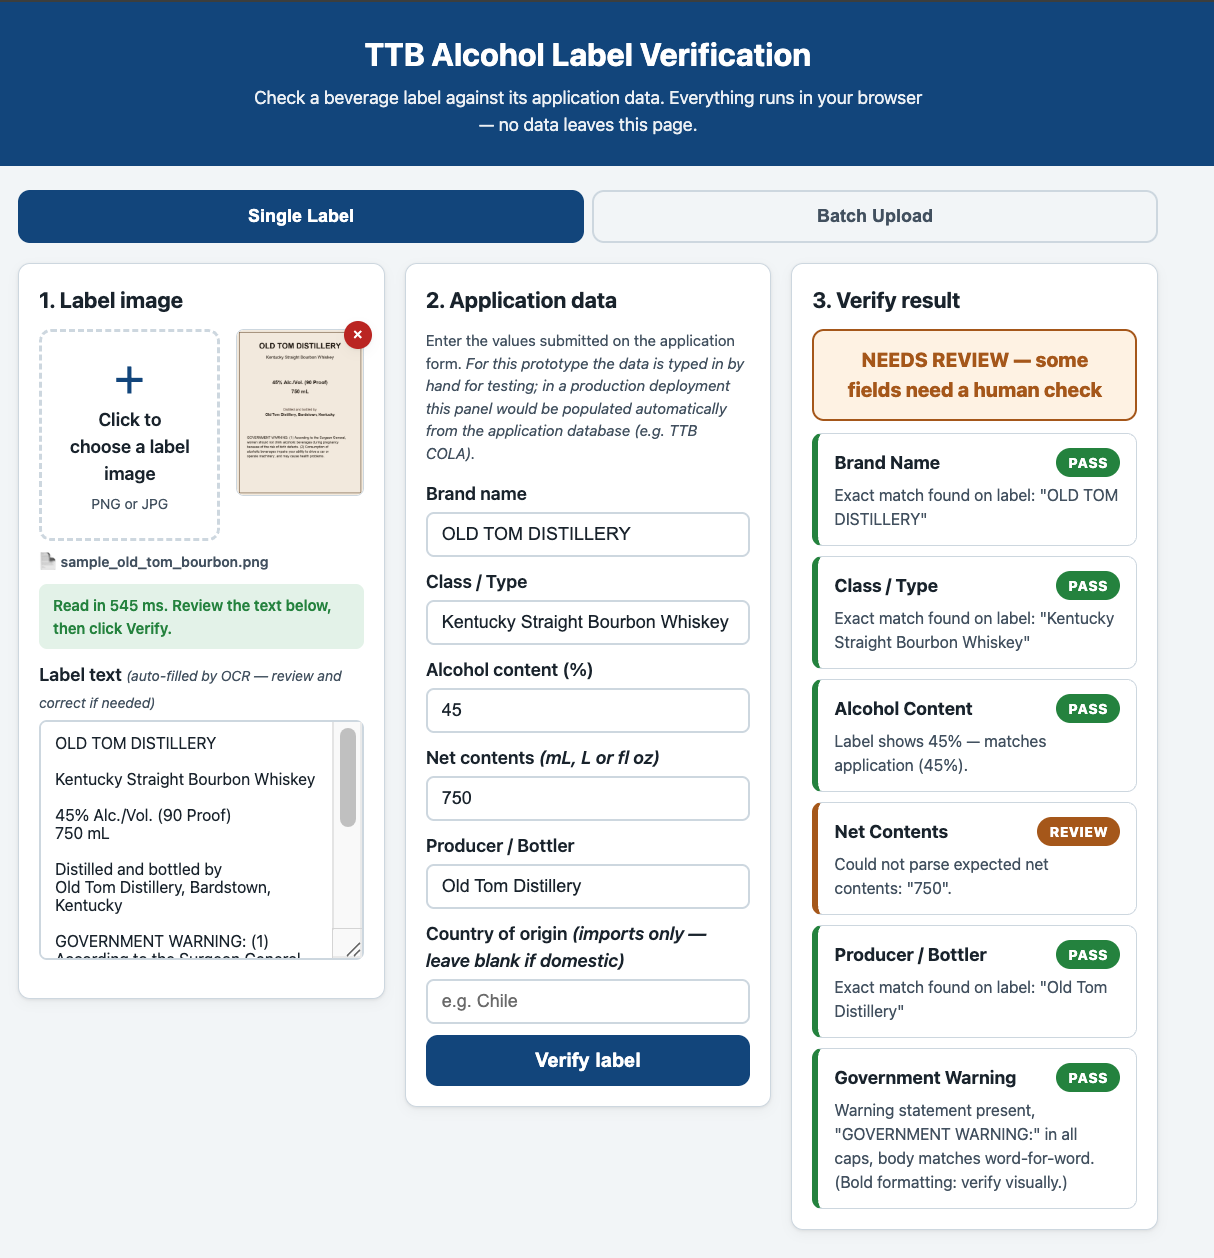
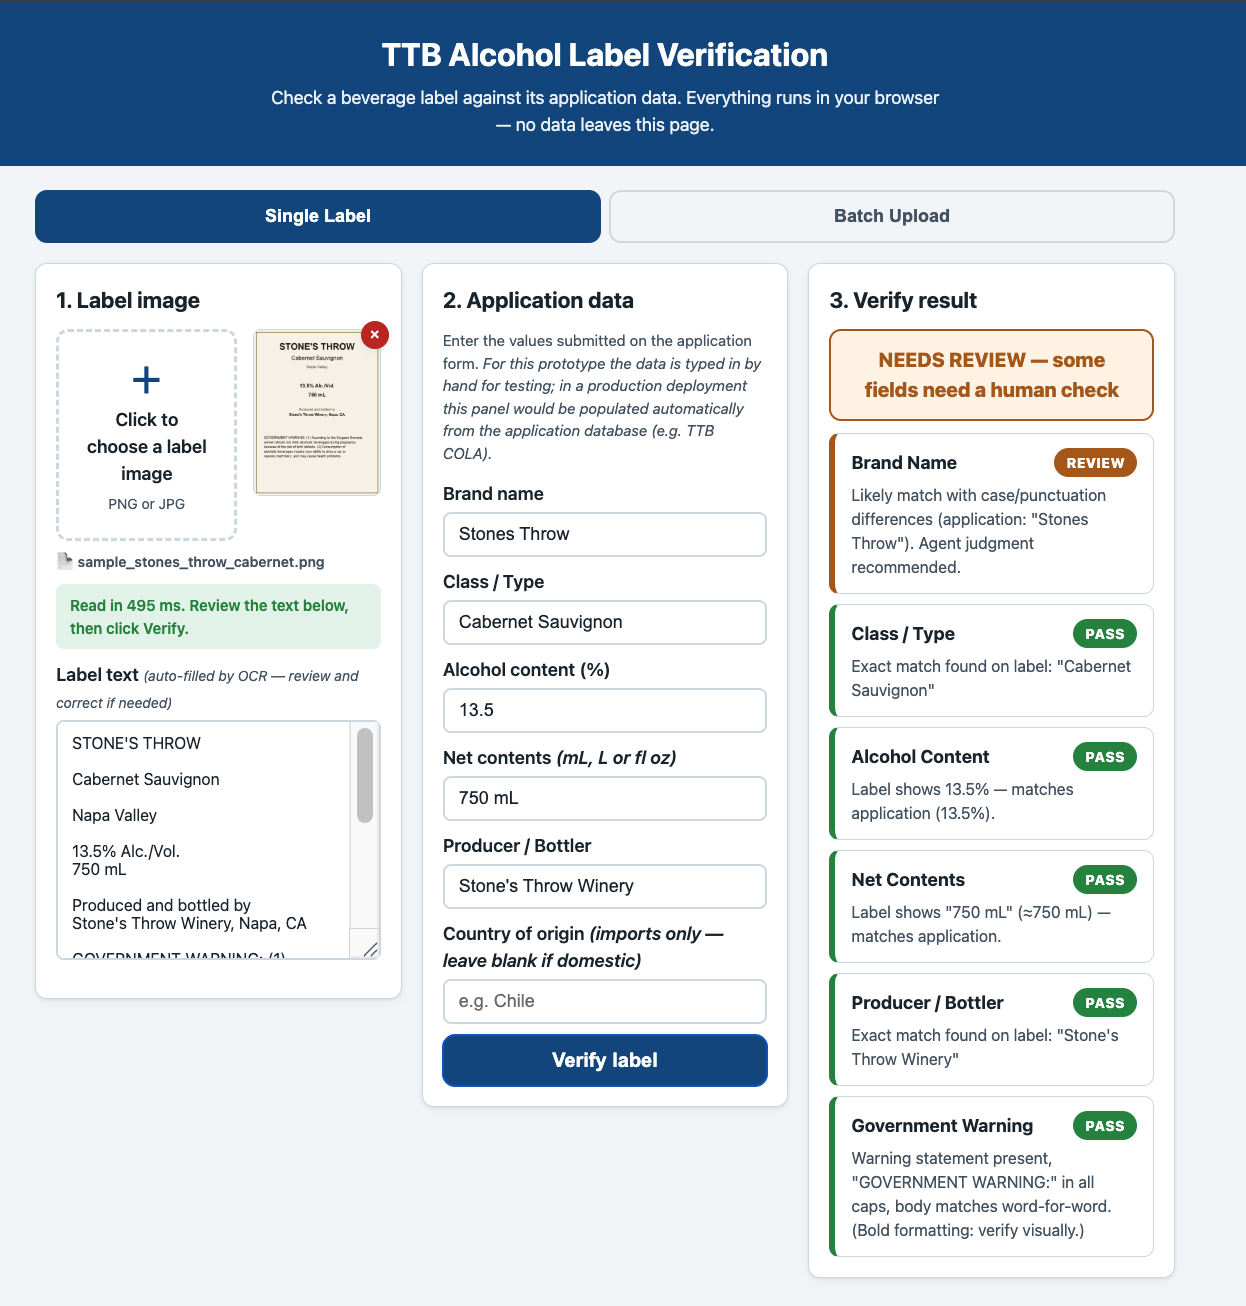
docs: use the Stone's Throw brand case-difference example for NEEDS REVIEW
Replace the review screenshot with the Stone's Throw case (Brand entered as
'Stones Throw' vs the label's 'STONE'S THROW') and describe it as a brand
case/punctuation difference, which is a clearer illustration of Dave's rule.

Changed region(s): [[0.0, 0.031, 1.0, 0.961]]

diff --git a/README.md b/README.md
@@ -76,26 +76,27 @@ python3 -m http.server 8000
 
 ### Try it
 
-Upload `samples/sample_old_tom_bourbon.png`, fill in the application data, and
-click **Verify label**. Changing a single field flips the verdict — the three
-states below all use this same label.
+Upload a label image, fill in the application data, and click **Verify label**.
+The three examples below show each verdict state.
 
-**PASS — every field matches.** Brand `OLD TOM DISTILLERY`, Class `Kentucky
-Straight Bourbon Whiskey`, ABV `45`, Net `750 mL`, Producer `Old Tom Distillery`.
-This also exercises distilled-spirits proof parsing (the label reads
-`45% Alc./Vol. (90 Proof)`) and the producer/bottler check.
+**PASS — every field matches.** Upload `samples/sample_old_tom_bourbon.png` and
+enter Brand `OLD TOM DISTILLERY`, Class `Kentucky Straight Bourbon Whiskey`, ABV
+`45`, Net `750 mL`, Producer `Old Tom Distillery`. This also exercises
+distilled-spirits proof parsing (the label reads `45% Alc./Vol. (90 Proof)`) and
+the producer/bottler check.
 
 ![Single-label verification — all fields PASS](docs/screenshots/single-pass.png)
 
-**NEEDS REVIEW — something a human should confirm.** Enter Net contents as `750`
-with no unit: it can't be parsed with confidence, so it's surfaced for review
-rather than failed outright. (Case-only differences behave the same way — e.g.
-Brand `Stone's Throw` against the label's `STONE'S THROW` — Dave's rule.)
+**NEEDS REVIEW — a difference a human should confirm.** Upload
+`samples/sample_stones_throw_cabernet.png` and enter Brand as `Stones Throw`
+against the label's `STONE'S THROW`. Rather than hard-fail an obvious
+case/punctuation difference, the tool marks the brand **NEEDS REVIEW** and leaves
+the call to the agent (Dave's rule).
 
 ![Single-label verification — NEEDS REVIEW](docs/screenshots/single-needs-review.png)
 
-**FAIL — a real mismatch.** Enter ABV as `35` against the label's 45% → the
-Alcohol Content field fails and the overall verdict is FAIL.
+**FAIL — a real mismatch.** With the Old Tom label, enter ABV as `35` against the
+label's 45% → the Alcohol Content field fails and the overall verdict is FAIL.
 
 ![Single-label verification — FAIL](docs/screenshots/single-fail.png)
 